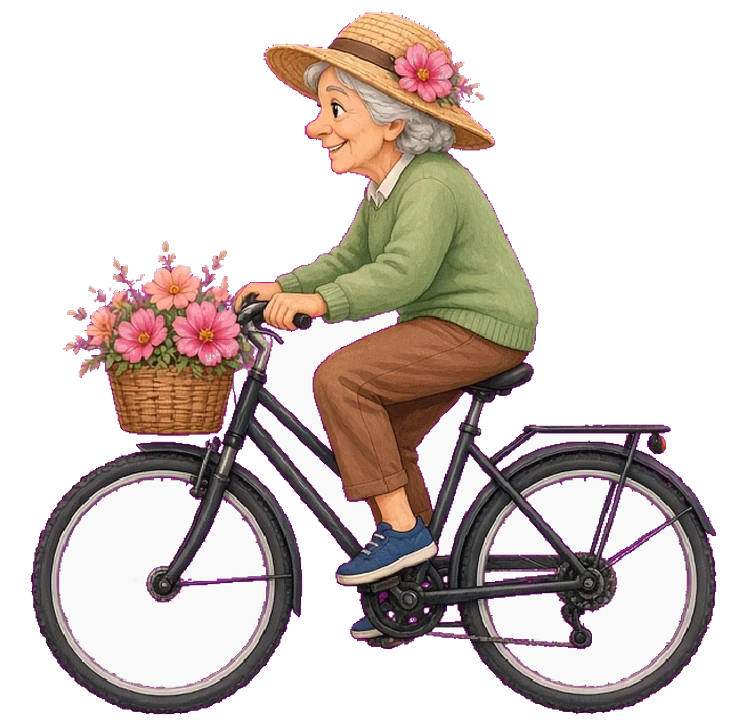
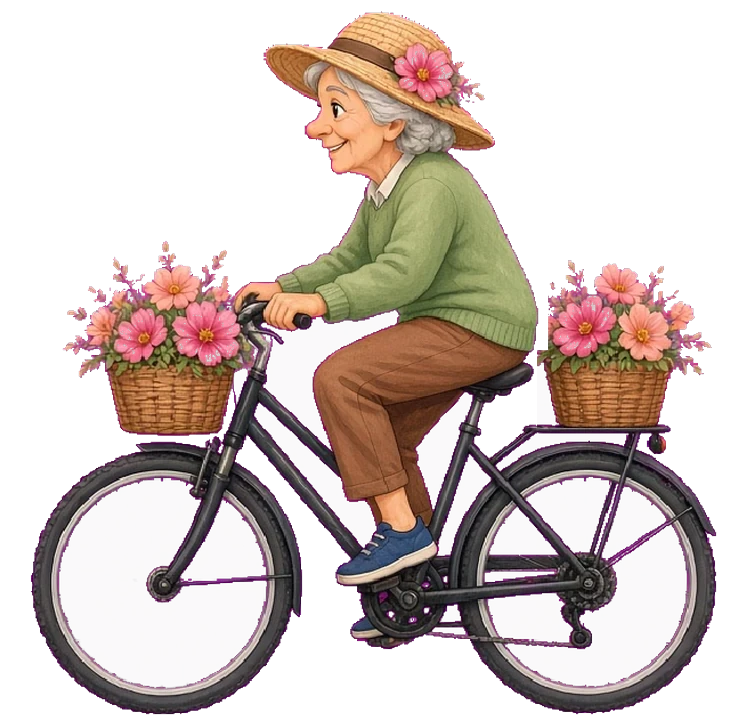
Střídej sousedku a cyklistu s babičkou a oprav blikající košík
- Sousedka: mladá paní s nákupem a babička s konví se střídají.
- Cyklista: muž s točícími se koly a babička na kole, která šlape.
- Babičce na kole ve 2. a 4. snímku chyběl košík na nosiči, takže blikal;
  je doplněný ze 3. snímku.

Claude-Session: https://claude.ai/code/session_01HvbWHoqHLJQwfRFFMYyRvu

Changed region(s): [[0.7082, 0.3667, 0.9545, 0.6111]]

diff --git a/src/game/runner.ts b/src/game/runner.ts
@@ -135,6 +135,8 @@ type Ent = {
   size?: number;
   /** Zadní řada lesa: kreslí se dřív a ztmavená. */
   far?: boolean;
+  /** Druhá podoba postavy: babička místo mladé sousedky / cyklisty (střídají se). */
+  alt?: boolean;
 };
 
 type Bit = {
@@ -226,6 +228,8 @@ const LOOK_FRAMES = 8;
 const PIGEON_FLY_FRAMES = 4;
 /** Snímky mávání husy (`public/game/goose-flap`). */
 const GOOSE_FLAP_FRAMES = 4;
+/** Snímky šlapání babičky na kole (`public/game/cyclist-pedal`). */
+const CYCLIST_PEDAL_FRAMES = 4;
 /** Snímky zalévání sousedky (`public/game/gardener-water`). */
 const GARDENER_WATER_FRAMES = 4;
 /**
@@ -816,6 +820,7 @@ export class Runner {
     this.decorCursor = -20;
     this.nextChunk = 0;
     this.lastHazard = null;
+    this.altFlip = {};
     this.hitKind = null;
     this.tale = "";
     this.taleTitle = "";
@@ -912,7 +917,7 @@ export class Runner {
     ] as const;
     const frames = ["jump", "duck", "run", "idle"] as const;
     this.loaded = 0;
-    this.loadTotal = names.length + frames.length * 4 + 13 + LOOK_FRAMES + PIGEON_FLY_FRAMES + GOOSE_FLAP_FRAMES + GARDENER_WATER_FRAMES + 4;
+    this.loadTotal = names.length + frames.length * 4 + 13 + LOOK_FRAMES + PIGEON_FLY_FRAMES + GOOSE_FLAP_FRAMES + GARDENER_WATER_FRAMES + CYCLIST_PEDAL_FRAMES + 4;
     this.ready = false;
     const rest = Promise.all([
       this.loadFramesCounted("jump"),
@@ -952,9 +957,10 @@ export class Runner {
       this.loadFramesCounted("pigeon-fly", PIGEON_FLY_FRAMES),
       this.loadFramesCounted("goose-flap", GOOSE_FLAP_FRAMES),
       this.loadFramesCounted("gardener-water", GARDENER_WATER_FRAMES),
+      this.loadFramesCounted("cyclist-pedal", CYCLIST_PEDAL_FRAMES),
       // Původní cyklista po vrstvách: kola se točí zvlášť (cyclist-base, -wheel-front/-rear, -over).
       Promise.all(["base", "wheel-front", "wheel-rear", "over"].map((part) => this.loadCounted(publicUrl(`/game/cyclist-${part}.webp`)))),
-    ]).then(([run, idle, stagRun, stagIdle, look, pigeonFly, gooseFlap, gardenerWater, cyclistParts]) => {
+    ]).then(([run, idle, stagRun, stagIdle, look, pigeonFly, gooseFlap, gardenerWater, cyclistPedal, cyclistParts]) => {
       if (!this.alive) return;
       this.art.run = run;
       this.art.idle = idle;
@@ -964,6 +970,7 @@ export class Runner {
       this.art.pigeonFly = pigeonFly;
       this.art.gooseFlap = gooseFlap;
       this.art.gardenerWater = gardenerWater;
+      this.art.cyclistPedal = cyclistPedal;
       const [base, front, rear, over] = cyclistParts;
       this.art.cyclistBase = base ?? null;
       this.art.cyclistFront = front ?? null;
@@ -2269,12 +2276,12 @@ export class Runner {
       // Cyklista jede koze naproti, až když je vidět, a proto startuje o kus dál: z mezery
       // před ním si cestou ujede asi desetinu obrazovky, takže předchozí překážku nedožene.
       const lead = this.viewW * 0.16;
-      this.ents.push({ kind, x: x + lead, lift: 0, anim: Math.random() * 6, alive: true });
+      this.ents.push({ kind, x: x + lead, lift: 0, anim: Math.random() * 6, alive: true, alt: this.nextAlt(kind) });
       this.hazardCursor += lead + u * 1.1 + speed * cyclistGap(loop);
       this.lastHazard = kind;
       return;
     }
-    this.ents.push({ kind, x, lift: 0, anim: Math.random() * 6, alive: true });
+    this.ents.push({ kind, x, lift: 0, anim: Math.random() * 6, alive: true, alt: this.nextAlt(kind) });
     this.pondsDirty = true;
     if (kind === "fence") {
       [0.48, 0.95, 0.48].forEach((lift, i) => {
@@ -2494,6 +2501,15 @@ export class Runner {
       return { l: cx - W * 0.35, r: cx + W * 0.39, t: feet - h * 0.86, b: feet - h * 0.34 };
     }
     return box(cx, feet, w * spec.hitW, h * spec.hitH);
+  }
+
+  /** Sousedka i cyklista se střídají: mladá paní / babička s konví, muž na kole / babička na kole. */
+  private altFlip: Partial<Record<Kind, boolean>> = {};
+  private nextAlt(kind: Kind): boolean | undefined {
+    if (kind !== "gardener" && kind !== "cyclist") return undefined;
+    const alt = !this.altFlip[kind];
+    this.altFlip[kind] = alt;
+    return alt;
   }
 
   private spriteFor(ent: Ent): HTMLImageElement | null {
@@ -2721,8 +2737,8 @@ export class Runner {
       } else {
         bob = Math.abs(Math.sin(this.time * 5 + ent.anim)) * this.u * 0.012;
       }
-    } else if (ent.kind === "cyclist") {
-      // Původní cyklista: pohupuje se a kola se točí (drawCyclist).
+    } else if (ent.kind === "cyclist" && !ent.alt) {
+      // Původní cyklista: pohupuje se a kola se točí (drawCyclist). Babička na kole šlape (cyclist-pedal).
       bob = Math.abs(Math.sin(this.time * 9 + ent.anim)) * this.u * 0.018;
       rot = Math.sin(this.time * 4.5 + ent.anim) * 0.025;
     } else if (ent.kind === "car") {
@@ -2736,15 +2752,17 @@ export class Runner {
       drawHeart(ctx, cx, feet - h * 0.55, h * 0.42);
       return;
     }
-    if (ent.kind === "cyclist" && this.drawCyclist(ctx, ent, cx, feet, h, rot)) return;
+    if (ent.kind === "cyclist" && !ent.alt && this.drawCyclist(ctx, ent, cx, feet, h, rot)) return;
     const img =
       ent.kind === "pigeon" && ent.fly
         ? (this.pigeonFlap(ent) ?? this.spriteFor(ent))
         : ent.kind === "dog"
           ? (this.gooseFlap(ent) ?? this.spriteFor(ent))
-          : ent.kind === "gardener"
+          : ent.kind === "gardener" && ent.alt
             ? (this.gardenerWater(ent) ?? this.spriteFor(ent))
-            : this.spriteFor(ent);
+            : ent.kind === "cyclist" && ent.alt
+              ? (this.cyclistPedal(ent) ?? this.spriteFor(ent))
+              : this.spriteFor(ent);
     if (!img) return;
     const flyScale = ent.kind === "pigeon" && ent.fly ? 1.65 : 1;
     const drawH = h * flyScale;
@@ -2771,6 +2789,14 @@ export class Runner {
     return sheet[index] ?? null;
   }
 
+
+  /** Babička na kole šlape; kolo stojí na místě. */
+  private cyclistPedal(ent: Ent): HTMLImageElement | null {
+    const sheet = this.art.cyclistPedal;
+    if (!Array.isArray(sheet) || sheet.length === 0) return null;
+    const index = Math.floor(this.time * 4 + ent.anim) % sheet.length;
+    return sheet[index] ?? null;
+  }
 
   /** Sousedka stojí a občas nakloní konev. Tělo zůstává. */
   private gardenerWater(ent: Ent): HTMLImageElement | null {
